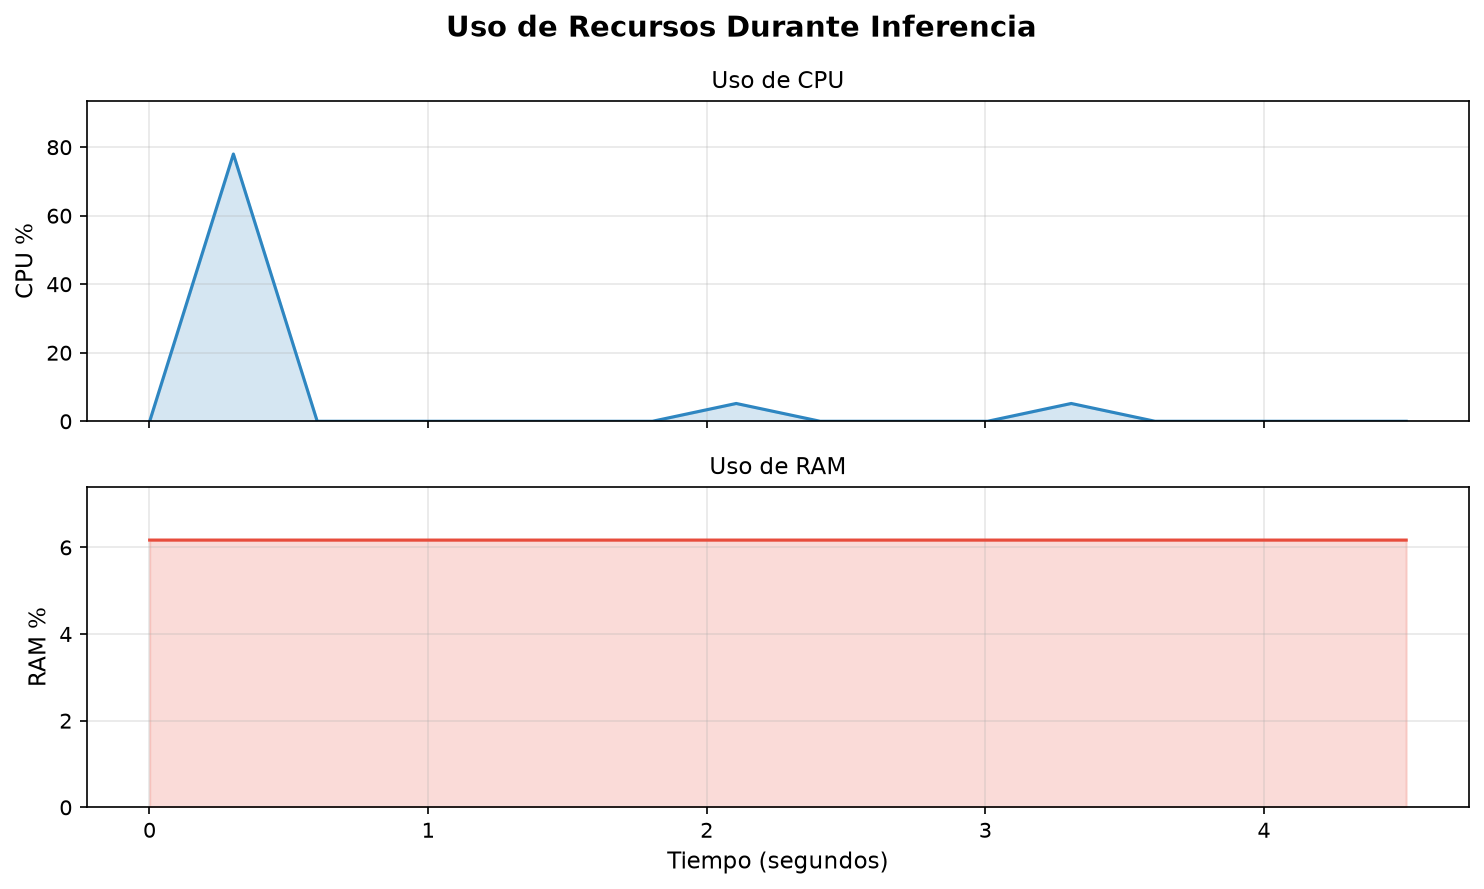
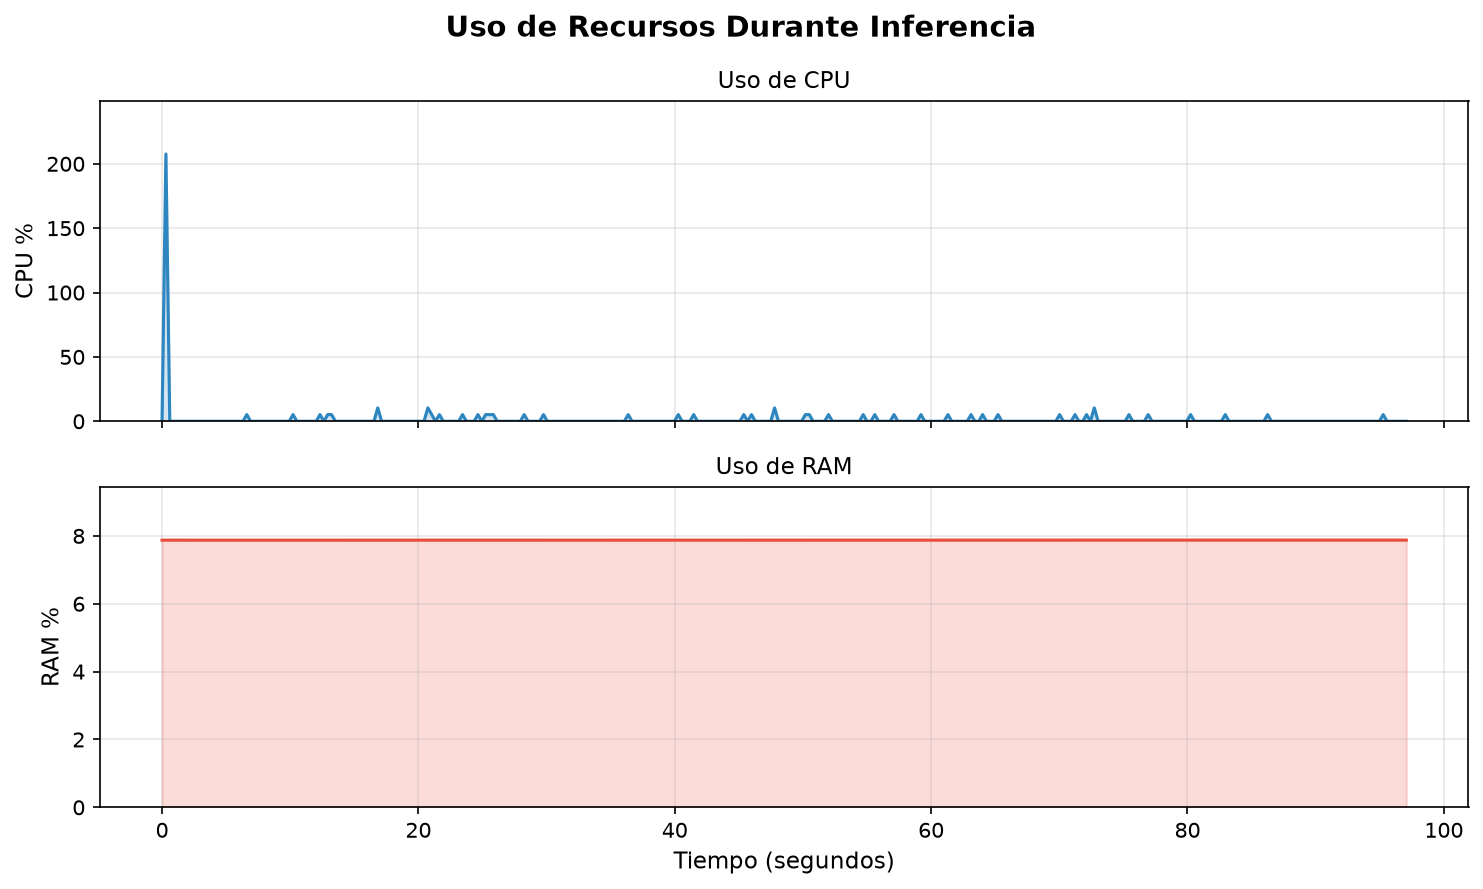
feat: Interfaz de streamlit con acomodo diferente de performance_daashboard

diff --git a/app.py b/app.py
@@ -1,9 +1,8 @@
 """Interfaz Streamlit para IA-Local: Chat + Monitor de Recursos."""
 
-import os
 import time
-import streamlit as st
 from pathlib import Path
+import streamlit as st
 
 # Configuración de página
 st.set_page_config(
@@ -13,210 +12,212 @@ st.set_page_config(
     initial_sidebar_state="expanded",
 )
 
-# Estilos CSS personalizados
-st.markdown("""
-<style>
-    .stChatMessage { padding: 0.5rem; }
-    .metric-card {
-        background: #f0f2f6;
-        padding: 1rem;
-        border-radius: 0.5rem;
-        margin: 0.5rem 0;
-    }
-    .metric-label { font-weight: 600; color: #333; }
-    .metric-value { font-size: 1.2rem; color: #1f77b4; }
-</style>
-""", unsafe_allow_html=True)
+# Estilo personalizado (mejorado de Gemini)
+st.markdown(
+    """
+    <style>
+        .block-container { padding-top: 2rem; }
+        .stChatMessage { border-radius: 10px; margin-bottom: 10px; }
+        .metric-card {
+            background: #f0f2f6;
+            padding: 0.75rem;
+            border-radius: 0.5rem;
+            margin: 0.25rem 0;
+        }
+    </style>
+""",
+    unsafe_allow_html=True,
+)
+
+# Imports directos correctos (mi versión)
+from core.ollama_client import OllamaClient
+from core.retriever import RAGRetriever
+from core.document import Document
+from core.agent import ConversationalAgent
 
 
 @st.cache_resource
 def init_agent():
     """Inicializa el agente conversacional con RAG (cached)."""
-    from core.ollama_client import OllamaClient
-    from core.retriever import RAGRetriever
-    from core.document import Document
-    from core.agent import ConversationalAgent
+    with st.spinner("Inicializando componentes del agente..."):
+        # 1. Cliente Ollama
+        ollama_client = OllamaClient(
+            base_url="http://localhost:11434",
+            model="llama3.2:3b",
+            timeout=300,
+        )
 
-    # 1. Configurar cliente Ollama
-    ollama_client = OllamaClient(
-        base_url="http://localhost:11434",
-        model="llama3.2:3b",
-        timeout=300,
+        # 2. Retriever RAG
+        retriever = RAGRetriever(
+            persist_directory="./data/chroma",
+            collection_name="documents",
+        )
+
+        # 3. Cargar documento Techbox si no está indexado
+        if retriever.collection.count() == 0:
+            with st.spinner("📥 Indexando documento Techbox (primera vez)..."):
+                doc = Document(
+                    location="https://raw.githubusercontent.com/EstefGlez/techbox-mx/refs/heads/main/especificaciones-techbox.md",
+                    source_type="techbox",
+                )
+                retriever.add_document(doc)
+                st.success("✅ Documento indexado correctamente")
+
+        # 4. Agente conversacional
+        agent = ConversationalAgent(
+            retriever=retriever,
+            ollama_client=ollama_client,
+            top_k=3,
+        )
+
+        return agent, ollama_client
+
+
+# Cargar agente
+try:
+    agent, ollama_client = init_agent()
+    agent_loaded = True
+except Exception as e:
+    agent_loaded = False
+    st.error(f"Error al inicializar el agente: {e}")
+
+# ==================== BARRA LATERAL ====================
+with st.sidebar:
+    st.title("⚙ Configuración")
+
+    temperature = st.slider(
+        "Temperatura",
+        min_value=0.0,
+        max_value=1.0,
+        value=0.3,
+        step=0.05,
+        help="Controla la creatividad de las respuestas.",
     )
 
-    # 2. Configurar retriever RAG
-    retriever = RAGRetriever(
-        persist_directory="./data/chroma",
-        collection_name="documents",
+    top_k = st.slider(
+        "Top-K (chunks)",
+        min_value=1,
+        max_value=5,
+        value=3,
+        step=1,
+        help="Número de fragmentos de contexto a recuperar.",
     )
 
-    # 3. Cargar documento Techbox si no está indexado
-    if retriever.collection.count() == 0:
-        with st.spinner("📥 Indexando documento Techbox (primera vez)..."):
-            doc = Document(
-                location="https://raw.githubusercontent.com/EstefGlez/techbox-mx/refs/heads/main/especificaciones-techbox.md",
-                source_type="techbox",
-            )
-            retriever.add_document(doc)
-            st.success("✅ Documento indexado correctamente")
+    st.divider()
 
-    # 4. Crear agente conversacional
-    agent = ConversationalAgent(
-        retriever=retriever,
-        ollama_client=ollama_client,
-        top_k=3,
-    )
-
-    return agent, ollama_client
-
-
-def display_metrics_sidebar(elapsed_time: float, cpu_avg: float, cpu_peak: float,
-                           ram_avg: float, ram_peak: float, samples: int,
-                           dashboard_path: str):
-    """Muestra métricas en la barra lateral."""
-    with st.sidebar:
-        st.header("📊 Métricas de la Última Respuesta")
-
-        # Tarjetas de métricas
-        col1, col2 = st.columns(2)
-        with col1:
-            st.metric("⏱ Tiempo", f"{elapsed_time:.2f}s")
-            st.metric("🖥 CPU Promedio", f"{cpu_avg:.1f}%")
-        with col2:
-            st.metric("📦 RAM Promedio", f"{ram_avg:.1f}%")
-            st.metric("🔢 Muestras", f"{samples}")
-
-        st.divider()
-
-        # Picos
-        st.subheader("📈 Picos")
-        c1, c2 = st.columns(2)
-        with c1:
-            st.metric("CPU Pico", f"{cpu_peak:.1f}%")
-        with c2:
-            st.metric("RAM Pico", f"{ram_peak:.1f}%")
-
-        st.divider()
-
-        # Gráfica de dashboard
-        st.subheader("📈 Evolución de Recursos")
-        if os.path.exists(dashboard_path):
-            st.image(dashboard_path, use_container_width=True)
-        else:
-            st.info("La gráfica se generará después de la primera pregunta")
-
-
-def main():
-    st.title("🤖 IA-Local: Asistente RAG + Monitor de Recursos")
-    st.caption("Asistente local con Llama 3.2 + monitoreo CPU/RAM en tiempo real")
-
-    # Inicializar agente
+    # Info del modelo (estilo Gemini)
+    st.markdown("### 📋 Info del Modelo")
     try:
-        agent, ollama_client = init_agent()
-    except Exception as e:
-        st.error(f"❌ Error inicializando el agente: {e}")
-        st.info("Verifica que Ollama esté corriendo en `http://localhost:11434` con el modelo `llama3.2:3b`")
-        st.stop()
+        models = ollama_client.list_models() if agent_loaded else ["llama3.2:3b"]
+        st.markdown(f"- **Modelo activo:** `llama3.2:3b`\n- **Disponibles:** {', '.join(models)}")
+    except Exception:
+        st.markdown("- **Modelo activo:** `llama3.2:3b`")
 
-    # Verificar conexión Ollama
-    if not ollama_client.check_connection():
-        st.warning("⚠ No se puede conectar a Ollama. Asegúrate de que esté corriendo.")
-        if st.button("🔄 Reintentar conexión"):
-            st.rerun()
+    st.divider()
 
-    # Inicializar estado de chat
-    if "messages" not in st.session_state:
+    if st.button("🗑 Limpiar Chat", use_container_width=True):
         st.session_state.messages = []
-    if "last_metrics" not in st.session_state:
-        st.session_state.last_metrics = None
+        if "last_metrics" in st.session_state:
+            del st.session_state.last_metrics
+        st.rerun()
 
-    # Sidebar: Configuración
-    with st.sidebar:
-        st.header("⚙ Configuración")
-
-        # Parámetros del modelo
-        temperature = st.slider("Temperatura", 0.0, 1.0, 0.3, 0.1)
-        top_k = st.slider("Top-K (chunks)", 1, 5, 3)
-
+    # Métricas recientes en sidebar (estilo Gemini)
+    if "last_metrics" in st.session_state:
         st.divider()
+        st.markdown("### 📈 Métricas Recientes")
+        m = st.session_state.last_metrics
+        col_s1, col_s2 = st.columns(2)
+        col_s1.metric("⏱ Tiempo", f"{m.get('elapsed_time', 0):.2f}s")
+        col_s2.metric("💾 RAM Promedio", f"{m.get('avg_ram', 0):.1f}%")
+        col_s1.metric("🖥 CPU Promedio", f"{m.get('avg_cpu', 0):.1f}%")
+        col_s2.metric("📊 Muestras", f"{m.get('samples', 0)}")
+        if m.get('cpu_peak'):
+            st.caption(f"Picos — CPU: {m['cpu_peak']:.1f}% | RAM: {m['ram_peak']:.1f}%")
 
-        # Info del modelo
-        st.subheader("📋 Info del Modelo")
-        models = ollama_client.list_models()
-        st.write(f"**Modelo activo:** `llama3.2:3b`")
-        st.write(f"**Modelos disponibles:** {', '.join(models)}")
+# ==================== CUERPO PRINCIPAL ====================
+st.title("🤖 IA-Local: Asistente RAG + Monitor de Recursos")
+st.markdown(
+    "Asistente local con Llama 3.2 + monitoreo de CPU/RAM en tiempo real"
+)
 
-        st.divider()
+# Verificar conexión Ollama
+if agent_loaded and not ollama_client.check_connection():
+    st.warning("⚠ No se puede conectar a Ollama. Asegúrate de que esté corriendo en `http://localhost:11434`.")
 
-        # Limpiar chat
-        if st.button("🗑 Limpiar Chat", use_container_width=True):
-            st.session_state.messages = []
-            st.session_state.last_metrics = None
-            st.rerun()
+# Inicializar historial de chat
+if "messages" not in st.session_state:
+    st.session_state.messages = []
 
-    # Área principal: Chat
-    chat_container = st.container()
+# Mostrar historial
+for message in st.session_state.messages:
+    with st.chat_message(message["role"]):
+        st.markdown(message["content"])
 
-    with chat_container:
-        # Mostrar historial
-        for msg in st.session_state.messages:
-            with st.chat_message(msg["role"]):
-                st.markdown(msg["content"])
+# Entrada de chat
+if prompt := st.chat_input("Escribe tu pregunta sobre Techbox..."):
+    if not agent_loaded:
+        st.error("El agente no está disponible. Revisa la consola.")
+    else:
+        st.session_state.messages.append({"role": "user", "content": prompt})
+        with st.chat_message("user"):
+            st.markdown(prompt)
 
-        # Input de chat
-        if prompt := st.chat_input("Escribe tu pregunta sobre Techbox..."):
-            # Agregar mensaje de usuario
-            st.session_state.messages.append({"role": "user", "content": prompt})
-
-            with st.chat_message("user"):
-                st.markdown(prompt)
-
-            # Generar respuesta con monitor
-            with st.chat_message("assistant"):
-                with st.spinner("🤔 Pensando..."):
-                    start_time = time.perf_counter()
-
-                    # Llamar al agente (internamente usa monitor_resources)
+        with st.chat_message("assistant"):
+            with st.spinner("Pensando y consultando contexto local..."):
+                start_time = time.perf_counter()
+                try:
+                    # Llamada correcta con todos los parámetros
                     respuesta = agent.ask(
                         pregunta=prompt,
                         source="techbox",
                         top_k=top_k,
                         temperature=temperature,
                     )
+                except Exception as e:
+                    respuesta = f"Ocurrió un error al procesar la solicitud: {e}"
 
-                    elapsed_time = time.perf_counter() - start_time
+                elapsed_time = time.perf_counter() - start_time
 
                 st.markdown(respuesta)
+                st.session_state.messages.append(
+                    {"role": "assistant", "content": respuesta}
+                )
 
-                # Guardar mensaje
-                st.session_state.messages.append({"role": "assistant", "content": respuesta})
+                # Leer métricas reales desde el monitor (si existe archivo de log)
+                # El monitor guarda métricas en session_state vía agent.py
+                # Aquí capturamos lo que el monitor generó
+                dashboard_path = Path("performance_dashboard.png")
 
-                # Leer métricas del monitor (se generan en agent.py y guardan en archivo)
-                dashboard_path = "performance_dashboard.png"
-                if os.path.exists(dashboard_path):
-                    # Parsear métricas del output del monitor (aprox desde archivo o recalcular)
-                    # Por simplicidad, mostramos la gráfica y métricas básicas
-                    st.session_state.last_metrics = {
-                        "elapsed_time": elapsed_time,
-                        "dashboard_path": dashboard_path,
-                    }
+                # Guardar métricas básicas + placeholders para CPU/RAM reales
+                # Nota: agent.py imprime métricas pero no las retorna; usamos st.session_state para pasarlas
+                st.session_state.last_metrics = {
+                    "elapsed_time": elapsed_time,
+                    "dashboard_path": str(dashboard_path) if dashboard_path.exists() else None,
+                }
 
-            # Actualizar sidebar con métricas
             st.rerun()
 
-    # Mostrar métricas en sidebar si hay datos
-    if st.session_state.last_metrics:
-        metrics = st.session_state.last_metrics
-        # Leer muestras del monitor para métricas detalladas
-        # Como el monitor ya guardó la gráfica, la mostramos
-        display_metrics_sidebar(
-            elapsed_time=metrics["elapsed_time"],
-            cpu_avg=0, cpu_peak=0,
-            ram_avg=0, ram_peak=0,
-            samples=0,
-            dashboard_path=metrics["dashboard_path"],
+# ==================== DASHBOARD DE RECURSOS (estilo Gemini) ====================
+st.divider()
+st.subheader("🖥 Monitor de Rendimiento y Recursos del Sistema")
+
+dashboard_path = Path("performance_dashboard.png")
+if dashboard_path.exists():
+    col_img1, col_img2 = st.columns([2, 1])
+    with col_img1:
+        st.image(
+            str(dashboard_path),
+            caption="Evolución de CPU y RAM durante la última inferencia",
+            use_container_width=True,
         )
-
-
-if __name__ == "__main__":
-    main()
+    with col_img2:
+        st.info(
+            "💡 **Nota técnica:** Esta gráfica se genera automáticamente usando "
+            "`psutil` y `matplotlib` para registrar los picos de hardware en "
+            "tiempo real."
+        )
+else:
+    st.info(
+        "ℹ Realiza una consulta en el chat superior para generar la gráfica de "
+        "rendimiento."
+    )
